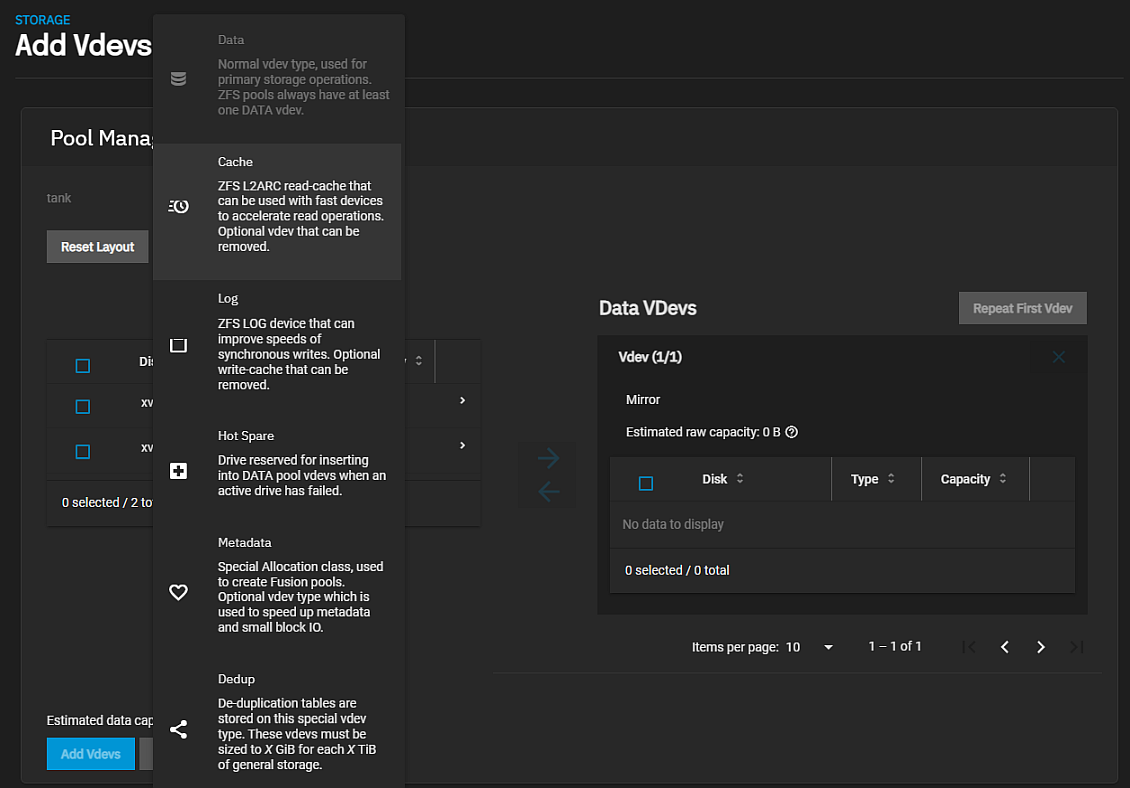
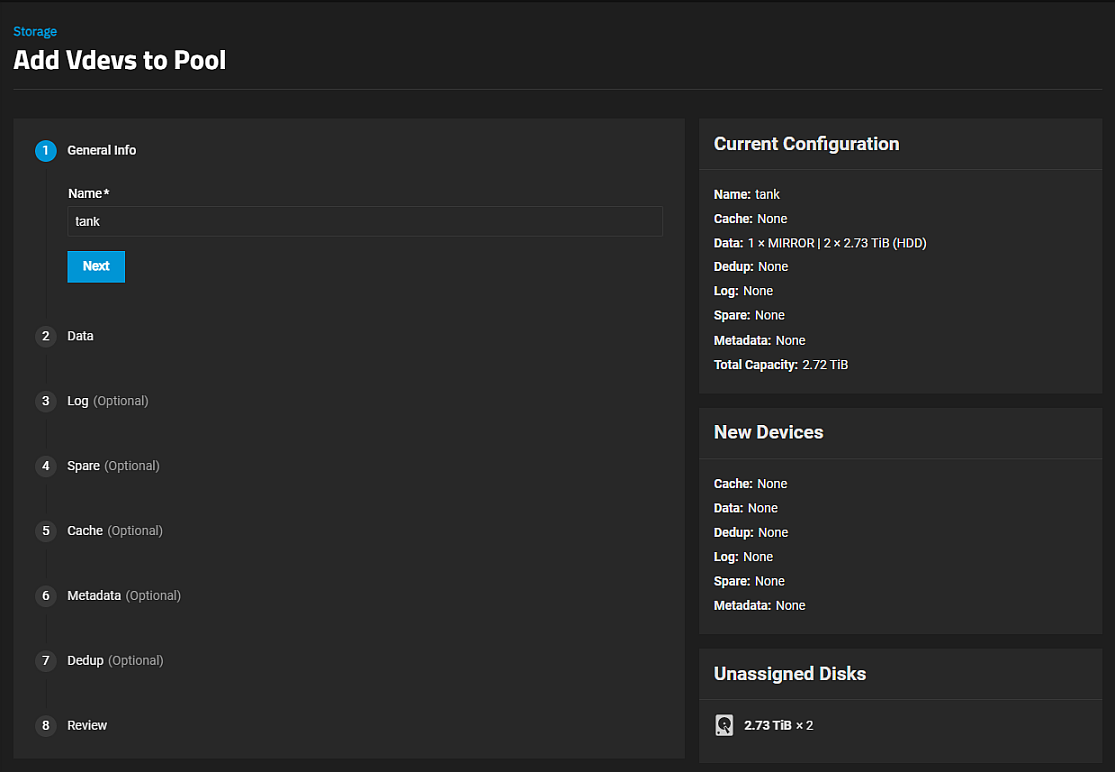
PD-939 Update Add Vdev Content
This commit updates the ManagePoolsSCALE.md article content in the adding a Vdev, and extending a pool sections. It adds new screenshots of the Add Vdev To Pool wizard screens.

diff --git a/content/SCALE/SCALETutorials/Storage/ManagePoolsScale.md b/content/SCALE/SCALETutorials/Storage/ManagePoolsScale.md
@@ -1,6 +1,6 @@
 ---
 title: "Managing Pools"
-description: "Provides instructions on managing storage pools, VDEVS and disks in TrueNAS SCALE."
+description: "Provides instructions on managing storage pools, VDEV, and disks in TrueNAS SCALE."
 weight: 40
 aliases:
  - /scale/scaletutorials/storage/pools/managepoolsscale/
@@ -49,7 +49,7 @@ Select **Confirm Export/Disconnect**
 
 Click **Export/Disconnect**. A confirmation dialog displays when the export/disconnect completes.
 
-## Adding a VDEV Using Pool Manager
+## Adding a VDEV to a Pool 
 
 ZFS supports adding VDEVs to an existing ZFS pool to increase the capacity of the pool.
 
@@ -59,33 +59,62 @@ You cannot change the original encryption or data VDEV configuration.
 
 To add a VDEV to a pool:
 Click **Manage Devices** on the **Topology** widget to open the **Devices** screen.
-Click **Add VDEV** on the **Devices** screen. The **Add Vdevs to Pool** version of the **Pool Manager** screen opens.
+Click **Add VDEV** on the **Devices** screen. The **Add Vdevs to Pool** to open the **Add Vdevs to Pool** screen.
 
-{{< trueimage src="/images/SCALE/Storage/AddVdevToPoolScreen.png" alt="Add VDEVs to Pool Using Pool Manager" id="Add VDEVs to Pool Using Pool Manager" >}}
+{{< trueimage src="/images/SCALE/Storage/AddVdevToPoolScreen.png" alt="Add VDEVs to Pool Screen" id="Add VDEVs to Pool Screen" >}}
 
-Click **Add Vdev** and select the type of VDEV to add from the list of options.
+Adding a vdev to an existing pool follows the same process as documented in [Create Pool]({{< relref "CreatePoolWizard.md" >}}). 
+Click on the type of vdev you want to add, for example, to add a spare, click on **Spare** to show the vdev spare options.
 
-{{< trueimage src="/images/SCALE/Storage/AddVDEVtoPoolAddVDevOptions.png" alt="Add VDEVs to Pool VDEV Options" id="Add VDEVs to Pool VDEV Options" >}}
+{{< trueimage src="/images/SCALE/Storage/AddVdevToPoolSpareScreen.png" alt="Add VDEVs to Pool Spare Example" id="Add VDEVs to Pool Spare Example" >}}
 
-Select the disk checkbox(es), then then click the <i class="fa fa-arrow-right" aria-hidden="true" title="Right Arrow"></i>&nbsp; to the left of the VDEV just added to move the disks to that VDEV.
+To use the automated option, select the disk size from the **Automated Disk Selection > Disk Size** dropdown list, then select the number of vdevs to add from the **Width** dropdown.
+To add the vdev manually, click **Manual Disk Selection** to open the **Manual Selection** screen. 
 
-Repeat for each type of VDEV you want to add to this pool.
+{{< trueimage src="/images/SCALE/Storage/AddVdevToPoolManualSelectionScreen.png" alt="Add Vdev Manual Selection Screen" id="Add Vdev Manual Selection Screen" >}}
 
-Click **Add Vdevs** at the bottom of the screen to save the changes and close the **Pool Manager** screen.
-The **Topology** widget displays the newly added VDEVs.
+Click **Add** to show the vdev option available to for the type of vdev you selected in this case it adds a stripe vdev for the share. 
+Vdev options are limited by the number of available disks in your system. 
+Drag the disk icon to the stripe vdev, then click **Save Selection**.
+
+{{< trueimage src="/images/SCALE/Storage/ManualSelectionAddVdevAddDisk.png" alt="Add Disk to Stripe Vdev for Spare" id="Add Disk to Stripe Vdev for Spare" >}}
+
+The **Manual Selection** screen closes and returns to the **Add Vdev to Pool** wizard screen (in this case the Spare option.)
+
+{{< trueimage src="/images/SCALE/Storage/AddVdevToPoolSpareWithVdevAdded.png" alt="Add Vdev to Pool Spare with Vdev Added" id="Add Vdev to Pool Spare with Vdev Added" >}}
+
+You have the option to accept the change or click **Edit Manual Disk Selection** to change the disk added to the strip vdev for the spare, or click **Reset Step** to clear the strip vdev from the spare completely.
+Click either **Next** to add another type of vdev or click on the type you want to add to this pool. 
+
+Repeat the same process above for each type of vdev you want to add.
+
+Click **Save and Go to Review** to go to the **Review** screen when you are ready to save your changes.
+
+{{< trueimage src="/images/SCALE/Storage/AddVdevToPoolReviewScreen.png" alt="Add Vdev to Pool Review Screen" id="Add Vdev to Pool Review Screen" >}}
+
+If you want to make changes, click either **Back** or on the vdev option (i.e, **Log**, **Cache**, etc.) to return to the settings for that vdev.
+If you want to clear all changes, click **Start Over**. Select **Confirm** then click **Start Over** to clear all changes.
+
+To save changes click **Update Pool**.
+
+### Extending a Vdev
 
 You cannot add more drives to an existing data VDEV but you can stripe a new VDEV of the same type to increase the overall pool size.
-To extend a pool, you must add a data VDEV of the same type as existing VDEVs. For example, create another mirror, then stripe the new mirror VDEV to the existing mirror VDEV.
+To extend a pool, you must add a data VDEV of the same type as existing VDEVs.
+For example, create another mirror, then stripe the new mirror VDEV to the existing mirror VDEV.
+While on the **Devices** screen, click on the data vdev, then click **Extend**. 
 
-To make a hot spare for a VDEV, click **Add VDev** and select **Hot Spare**.
-Move the disk to use to the **Spare VDev** before you click **Add VDevs** to save the changes to the pool.
-
-### Removing VDEVs using Manage Devices
-
-The L2ARC (cache) and SLOG (log) VDEVs can always be removed from an existing pool, regardless of topology or VDEV type.
+{{< expand "Extending VDEV Examples" "v" >}}
+* To make a striped mirror, add the same number of drives to extend a ZFS mirror.
+  For example, you start with ten available drives. Begin by creating a mirror of two drives, and then extending the mirror by adding another mirror of two drives. Repeat this three more times until you add all ten drives.
+* To make a stripe of two RAIDZ1 VDEVs (similar to RAID 50 on a hardware controller), add another three drives to extend the three-drive RAIDZ1.
+* To make a stripe of RAIDZ2 VDEVs (similar to RAID 60 on a hardware controller), add another four drives to extend the four-drive RAIDZ2.
+{{< /expand >}}
+### Removing VDEVs 
+You can always remove the L2ARC (cache) and SLOG (log) VDEVs from an existing pool, regardless of topology or VDEV type.
 Removing these devices does not impact data integrity, but can significantly impact performance for reads and writes.
 
-In addition, a data VDEV can be removed from an existing pool under specific circumstances.
+In addition, you can remove a data VDEV from an existing pool under specific circumstances.
 This process preserves data integrity but has multiple requirements:
 
 * The pool must be upgraded to a ZFS version that includes the `device_removal` feature flag.
@@ -94,7 +123,7 @@ This process preserves data integrity but has multiple requirements:
 * All top-level VDEVs in the pool must use the same basic allocation unit size (`ashift`).
 * The remaining data VDEVs must contain sufficient free space to hold all of the data from the removed VDEV.
 
-When a RAIDZ data VDEV is present, device removal is generally not possible.
+When a RAIDZ data VDEV is present, it is generally not possible to remove a device.
 The allocation unit size requirement might apply to pools upgraded from a legacy FreeNAS version, but is unlikely to impact pools created on TrueNAS 12 or later.
 
 To remove a VDEV from a pool:
@@ -106,15 +135,7 @@ Confirm the removal operation and click the **Remove** button.
 The VDEV removal process status is visible in the [Task Manager]({{< relref "TasksScreens.md" >}}) (or alternately with the `zpool status` command).
 Avoid physically removing or attempting to wipe the disks until the removal operation completes.
 
-### Extending VDEV Examples
-
-* To make a striped mirror, add the same number of drives to extend a ZFS mirror.
-  For example, you start with ten available drives. Begin by creating a mirror of two drives, and then extending the mirror by adding another mirror of two drives. Repeat this three more times until you add all ten drives.
-* To make a stripe of two RAIDZ1 VDEVs (similar to RAID 50 on a hardware controller), add another three drives to extend the three-drive RAIDZ1.
-* To make a stripe of RAIDZ2 VDEVs (similar to RAID 60 on a hardware controller), add another four drives to extend the four-drive RAIDZ2.
-
 ## Running a Pool Data Integrity Check (Scrub)
-
 Use **Scrub** on the **ZFS Health** pool widget to start a pool data integrity check.
 
 {{< trueimage src="/images/SCALE/Storage/StorageDashboardDiskHealthWidget.png" alt="Disk Health Widget" id="Disk Health Widget" >}}
@@ -130,7 +151,6 @@ The **ZFS Health** widget displays the state of the last scrub or disks in the p
 To view scheduled scrub tasks, click **View all Scrub Tasks** on the **ZFS Health** widget.
 
 ## Managing Pool Disks
-
 The **Storage Dashboard** screen **Disks** button and the **Manage Disks** button on the **Disk Health** widget both open the **Disks** screen.
 
 **Manage Devices** on the **Topology** widget opens the **Devices** screen.
@@ -141,11 +161,9 @@ You can take a disk offline, detach it, replace it, manage the SED encryption pa
 See [Replacing Disks]({{< relref "ReplacingDisks.md" >}}) for more information on the **Offline**, **Replace** and **Online** options.
 
 ## Expanding a Pool
-
 Click **Expand** on the **Storage Dashboard** to increase the pool size to match all available disk space. An example is expanding a pool when resizing virtual disks apart from TrueNAS.
 
 ## Upgrading a Pool
-
 Storage pool upgrades are typically not required unless the new OpenZFS feature flags are deemed necessary for required or improved system operation.
 
 Do *not* do a pool-wide ZFS upgrade until you are ready to commit to this SCALE major version and lose the ability to roll back to an earlier major version!
